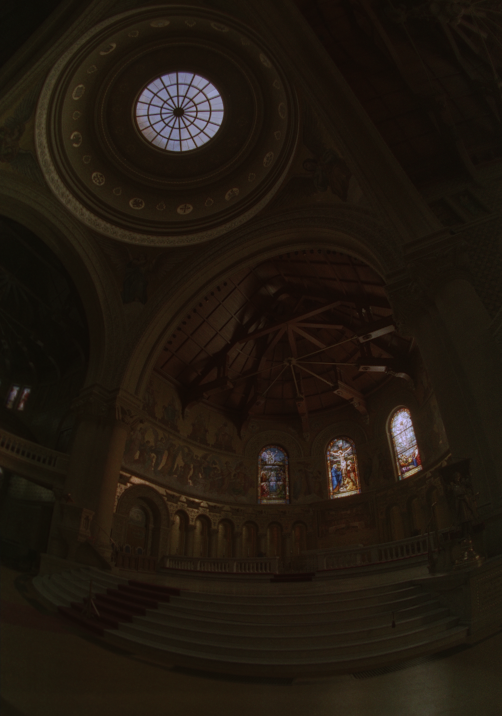
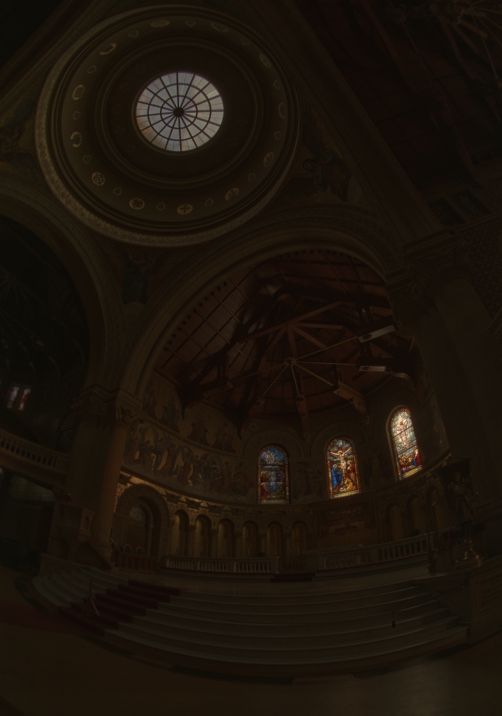
results local tone mapping

diff --git a/lab3/Part3/part3.m b/lab3/Part3/part3.m
@@ -1,9 +1,9 @@
 %load HDR
-hdr = hdrread('../Part1/Results/hdr_image.hdr');
+hdr = hdrread('../Part1/Results/tent_weights/hdr_image.hdr');
 
 fignum = 6;
 
-for dR = [2, 4, 6]
+for dR = [2, 3, 4, 5, 6, 7, 8]
 
     imwrite( ...
         durand_tonemapping(hdr, dR, fignum), ...
